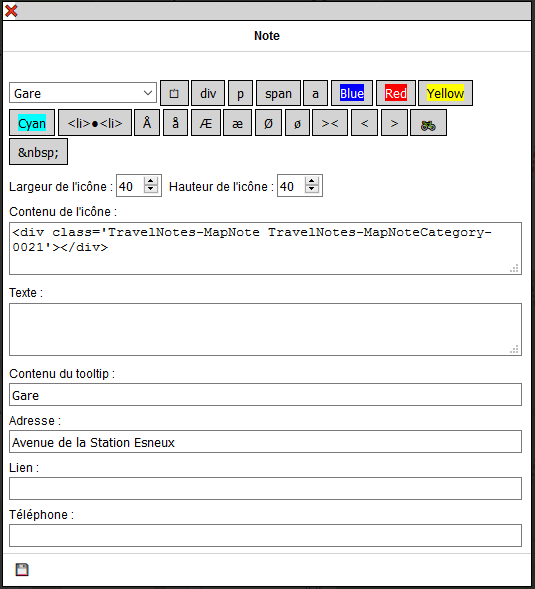
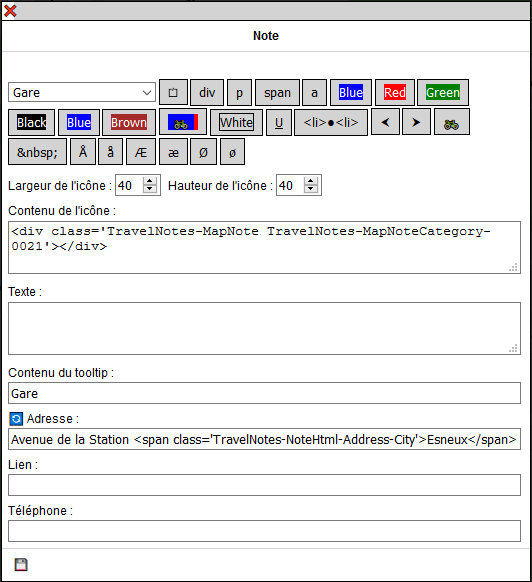
Preparing release 1.4.0

Changed region(s): [[0.0, 0.0, 1.0, 1.0]]

diff --git a/TravelNotesGuides/fr/GuideUtilisateurFR.md b/TravelNotesGuides/fr/GuideUtilisateurFR.md
@@ -34,7 +34,8 @@ Le **livre de voyage** est une page HTML qui regroupe toute l'information du voy
 Si vous utilisez Travel & Notes uniquement pour créer des notes, vous pouvez ignorer toute la partie qui concernent les clefs d'accès. Celles-ci ne sont utilisées que pour le calcul des trajets.
 
 Travel & Notes ne calcule pas lui-même les itinéraires des trajets. Il se connecte chez un fournisseur d'itinéraires pour obtenir ce trajet. Les différents fournisseurs d'itinéraire qu'il est possible d'utiliser actuellement
-sont GraphHopper, Mapbox et et OSRM. Il est également possible de tracer une polyline entre deux endroits, sans suivre de chemins.
+sont GraphHopper, Mapbox et et OSRM. Il est également possible de tracer une polyline entre deux endroits, sans suivre de chemins. Un itinéraire en train entre deux gares peut aussi être ajouté, à condition
+que cet itinéraire soit encodé dans Openstreetmap, en respectant les règles des transports publics version 2.
 
 Pour GraphHopper et Mapbox il est nécessaire de posséder une clef d'accès ( **API Key** ) pour se connecter au serveur. Consultez les sites internet de ces différents fournisseurs pour obtenir une clef d'accès.
 
@@ -140,7 +141,7 @@ Faites un click droit sur le point de passage et choisissez "supprimer ce point 
 
 #### Choisir un mode de parcours et un fournisseur d'itinéraire
 
-Utilisez les boutons dans le bas du contrôle pour modifier le mode de déplacement (vélo, piéton ou voiture) ainsi que le fournisseur de trajet.
+Utilisez les boutons dans le bas du contrôle pour modifier le mode de déplacement (vélo, piéton, voiture ou train) ainsi que le fournisseur de trajet.
 
 <img src="RouterButtons.PNG" />
 
@@ -214,6 +215,15 @@ Déplacez l'icône de la note pour que la ligne soit visible. Ensuite faites un 
 Une note de trajet a toujours sa latitude et longitude sur le trajet. Lorsque la ligne est déposée, le point le plus proche sur le trajet est recherché et l'extrémité libre
 de la ligne déplacé vers ce point.
 
+### Transformer une note de trajet en note de voyage
+
+Faites un clic droit sur l'icône de la note et sélectionnez "Transformer en note de voyage" dans le menu contextuel. La transformation n'est possible que si aucun trajet n'est en cours d'édition.
+
+### Transformer une note de voyage en note de trajet
+
+Faites un clic droit sur l'icône de la note et sélectionnez "Transformer en note de trajet" dans le menu contextuel. La transformation n'est possible que si aucun trajet n'est en cours d'édition.
+La note sera attachée au trajet le plus proche de celle-ci.
+
 ### La boite d'édition d'une note
 
 <img src="NoteEditionFR.PNG" />
@@ -231,7 +241,18 @@ Chaque zone d'édition peut contenir du texte simple ou du html, à l'exception 
 La zone "Contenu de l'icône" sera utilisée pour représenter la note sur la carte et ne peut pas être vide (laisser cette zone vide empêcherait toute modification ultérieure de la note).
 
 La zone "Adresse" est complétée automatiquement lors de la création de la note - [Nominatim](http://wiki.openstreetmap.org/wiki/Nominatim) est utilisé pour géolocaliser les notes.
-Cette zone ne sera jamais modifiée par Nominatim par la suite, même si la note a été déplacée.
+Cette zone ne sera jamais modifiée par Nominatim par la suite, même si la note a été déplacée. Le bouton &#x1f504; permet cependant de demander une nouvelle géolocalisation à Nominatim.
+
+#### Note de trajet prédéfinie "Icône SVG depuis OSM"
+
+Lorsque l'on crée une note de trajet, il est possible de choisir "Icône SVG depuis OSM" dans la liste des notes prédéfinies. Dans ce cas, Travel & Notes va rechercher dans Openstreetmap
+l'intersection la plus proche située sur le trajet et va créer une icône en SVG reprenant les rues proches de cette intersection.
+
+L'intersection sera placée au centre de l'icône et le contenu de celle-ci sera orientée en fonction du trajet suivi: la route par laquelle on arrive à l'intersection sera tournée vers le bas de l'icône.
+
+L'adresse sera également modifiée: tous les noms de rue trouvés à l'intersection seront indiqués, séparés par un symbole &0x2AA5;. Le premier nom de rue sera toujours celui par lequel on arrive à l'intersection
+et le dernier nom celui par lequel on quitte l'intersection. Ce nom sera précédé d'une flèche indiquant la direction à suivre. Le nom de la commune / ville sera également ajouté. Si un nom de hameau ou de village est 
+trouvé à proximité de l'intersection, celui-ci sera également ajouté entre parenthèses.
 
 #### Quleques exemples de notes 
 
@@ -245,6 +266,15 @@ Et le résultat dans TravelNotes:
 
 <img src="NoteStandard2FR.PNG" />
 
+##### Une note de trajet créée avec "Icône SVG depuis OSM"
+
+Le trajet va de la droite vers la gauche. L'intersection des rues Tiyou d'Hestreu, Chemin des Patars et Basse Voie se trouve au centre de l'icône.
+Les rues sont orientées de telle sorte que une personne qui suit le trajet sur le terrain voit les rues dans la même position que sur l'icône.
+La rue par laquelle on arrive est le Tiyou d'Hestreu. Une flèche vers la droite indique qu'il faut tourner à droite dans la Basse Voie.
+Nous sommes dans la commune de Anthisnes et au hameau de Limont.
+
+<img src="SVGIconFR.PNG" />
+
 ##### Une note avec un texte sur une ligne
 
 La boite de dialogue: 
@@ -254,16 +284,6 @@ La boite de dialogue:
 Et le résultat dans TravelNotes:
 
 <img src="NoteTexte2FR.PNG" />
-
-##### Une note avec un texte sur plusieurs lignes
-
-La boite de dialogue: 
-
-<img src="NoteTexte3FR.PNG" />
-
-Et le résultat dans TravelNotes:
-
-<img src="NoteTexte4FR.PNG" />
 
 ##### Une note avec une photo
 
@@ -299,6 +319,9 @@ Cliquez sur le bouton &#x1f4cb;. Un nouvel onglet est créé avec le livre de vo
 créées sur la carte. Il est possible de choisir ce que l'on désire voir présent dans le livre de voyage via le menu en haut de page :
 
 <img src="RoadbookFR.PNG" />
+
+Le bouton "Enrégistrer" permet de sauver le fichier html sur votre PC. Pour pouvoir affichier correctement ce fichier par après, le fichier
+TravelNotesRoadbook.min.css doit être présent dans le même répertoire.
 
 ## Préparer un voyage et le consulter depuis internet
 

diff --git a/TravelNotesGuides/en/UserGuideEN.md b/TravelNotesGuides/en/UserGuideEN.md
@@ -33,7 +33,8 @@ The **roadbook** is an HTML page that contains all the information of the travel
 If you use Travel & Notes only to create notes, you can skip all the part about the access keys. These are only used for calculating routes.
 
 Travel & Notes does not calculate routes and itineraries. It connects to a route provider to get this route. The different route providers that can currently be used
-are GraphHopper, Mapbox and OSRM. It is also possible to draw a polyline between two places, without following paths.
+are GraphHopper, Mapbox and OSRM. It is also possible to draw a polyline between two places, without following paths. A train route between two stations can also be added, provided
+that this route is encoded in OpenStreetMap, respecting the rules of public transport version 2.
 
 For GraphHopper and Mapbox it is necessary to have an access key (**API Key**) to connect to the server. Check the websites of these different providers to obtain an access key.
 
@@ -139,7 +140,7 @@ Right click on the waypoint and choose "delete this waypoint" from the menu. It 
 
 #### Choose a route mode and route provider
 
-Use the buttons at the bottom of the control to change the route mode (bike, pedestrian or car) as well as the route provider.
+Use the buttons at the bottom of the control to change the route mode (bike, pedestrian, car or train) as well as the route provider.
 
 <img src="RouterButtons.PNG" />
 
@@ -213,6 +214,15 @@ Move the note icon to make the line visible. Then drag and drop the free end of 
 A route note always has its latitude and longitude on the route. When the line is dropped, the nearest point on the route is searched and the free end
 of the line moved to this point.
 
+### Turn a route note into a travel note
+
+Right-click on the note icon and select "Transform to travel note" from the context menu. The transformation is only possible if no route is being edited.
+
+### Turn a travel note into a route note
+
+Right-click on the note icon and select "Transform to route note" from the context menu. The transformation is only possible if no route is being edited.
+The note will be attached to the route closest to it.
+
 ### The note dialog box
 
 <img src="NoteEditionEN.PNG" />
@@ -230,7 +240,18 @@ Each edit box can contain plain text or html, except for the "Link" area.
 The "Icon Content" area will be used to represent the note on the map and can not be empty (leaving this area blank would prevent any subsequent changes to the note).
 
 The "Address" area is completed automatically when creating the note - [Nominatim](http://wiki.openstreetmap.org/wiki/Nominatim) is used to geotag the notes.
-This area will never be changed by Nominatim afterwards, even if the note has been moved.
+This area will never be changed by Nominatim afterwards, even if the note has been moved. The button &#x1f504; allows, however, to request a new geolocation to Nominatim.
+
+#### Predefined route notes "SVG icon from OSM"
+
+When creating a route note, you can choose "SVG icon from OSM" in the list of predefined notes. In this case, Travel & Notes will search OpenStreetMap
+the nearest intersection located on the route and will create an SVG icon showing the streets near this intersection.
+
+The intersection will be placed in the center of the icon and its content will be oriented according to the path followed: the route by which one arrives at the intersection will be turned towards the bottom of the icon.
+
+The address will also be modified: all the street names found at the intersection will be indicated, separated by a symbol &0x2AA5;. The first street name will always be the one by which we arrive at the intersection
+and the last name the one by which one leaves the intersection. This name will be preceded by an arrow indicating the direction to follow. The name of the town / city will also be added. If a hamlet or village name is
+found near the intersection, it will also be added in parentheses.
 
 #### Some examples of notes
 
@@ -244,6 +265,15 @@ And the result on TravelNotes:
 
 <img src="NoteStandard2EN.PNG" />
 
+##### A route note created with "SVG icon from OSM"
+
+The path goes from right to left. The intersection of Tiyou d'Hestreu, Chemin des Patars and Basse Voie streets is at the center of the icon.
+The streets are oriented so that a person who follows the path on the ground sees the streets in the same position as on the icon.
+The street we arrive at is Tiyou d'Hestreu. An arrow to the right indicates that you must turn right in the Basse Voie.
+We are in the city of Anthisnes and the hamlet of Limont.
+
+<img src="SVGIconEN.PNG" />
+
 ##### A note with a text on a line
 
 The dialog box: 
@@ -253,16 +283,6 @@ The dialog box:
 And the result on TravelNotes:
 
 <img src="NoteTexte2EN.PNG" />
-
-##### A note with a text on several lines
-
-The dialog box: 
-
-<img src="NoteTexte3EN.PNG" />
-
-And the result on TravelNotes:
-
-<img src="NoteTexte4EN.PNG" />
 
 ##### A note with a photo
 
@@ -297,6 +317,9 @@ Click on the button &#x1f4cb;. A new tab is created with the roadbook. This cont
 created on the map. It is possible to choose what you want to see in the roadbook via the menu at the top of the page:
 
 <img src="RoadbookEN.PNG" />
+
+The "Save" button saves the html file on your PC. To be able to correctly display this file afterwards, the file
+TravelNotesRoadbook.min.css must be present in the same directory.
 
 ## Prepare a travel and consult it from the internet
 
